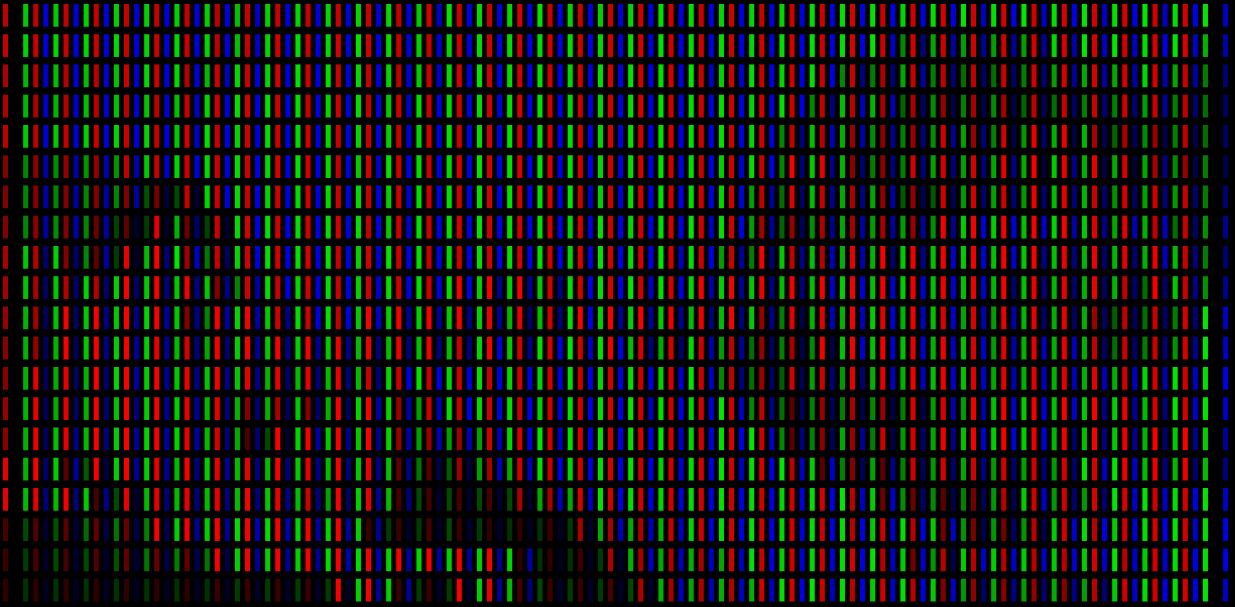
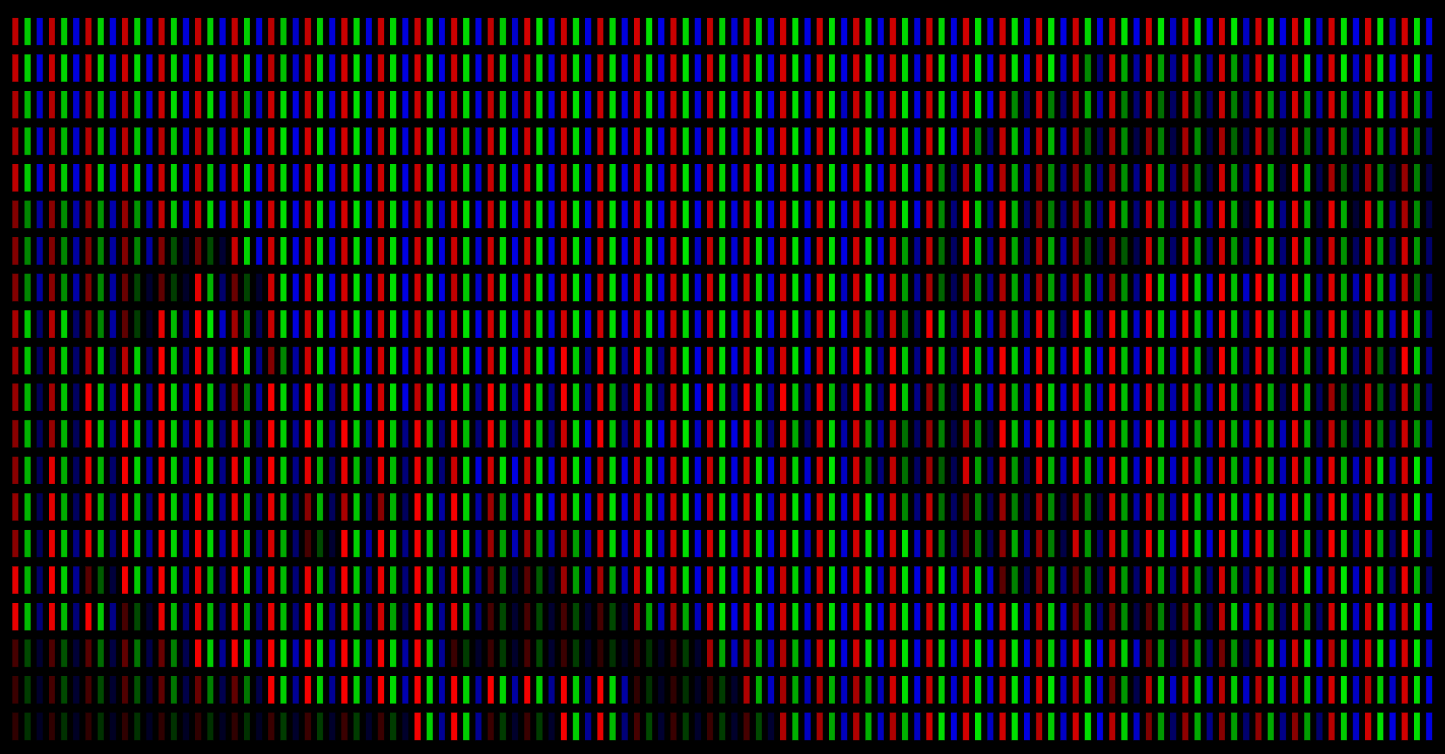
v1.2

diff --git a/script.js b/script.js
@@ -39,14 +39,17 @@ function draw() {
     translate(width/2, height/2)
     for (let x = 0; x < imagee.width; x += 1) {
         for (let y = 0; y < imagee.height; y += 1) {
-            fill(360, 0, 0, imagee.get(x, y)[0])
+            //red
+            fill(360, 0, 0, imagee.get(x-1, y)[0])
             rect((x-xo)*zoom, (y-yo)*zoom, 1/6*zoom, 0.75*zoom)
 
-            fill(0, 360, 0, imagee.get(x, y)[1])
+            //blue (idk why this fixes the order)
+            fill(0, 0, 360, imagee.get(x-1, y)[2])
             rect((x+2/3-xo)*zoom, (y-yo)*zoom, 1/6*zoom, 0.75*zoom)
 
-            fill(0, 0, 360, imagee.get(x, y)[2])
-            rect((x+4/3-xo)*zoom, (y-yo)*zoom, 1/6*zoom, 0.75*zoom)
+            //green
+            fill(0, 360, 0, imagee.get(x, y)[1])
+            if(x != imagee.width-1) rect((x+4/3-xo)*zoom, (y-yo)*zoom, 1/6*zoom, 0.75*zoom)
         }
     }
 
